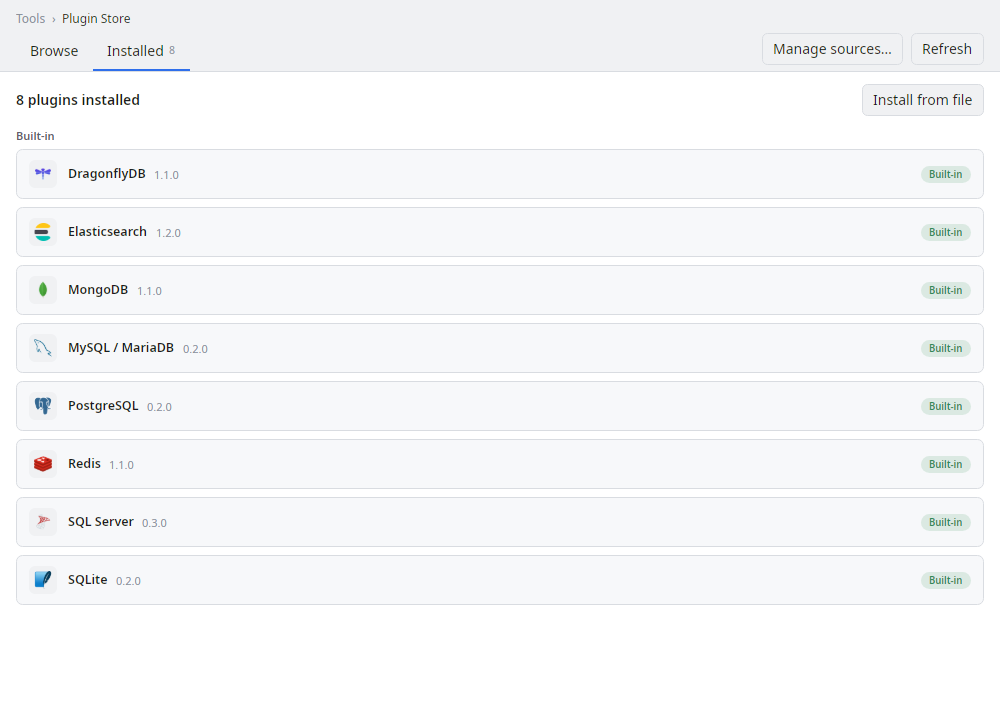
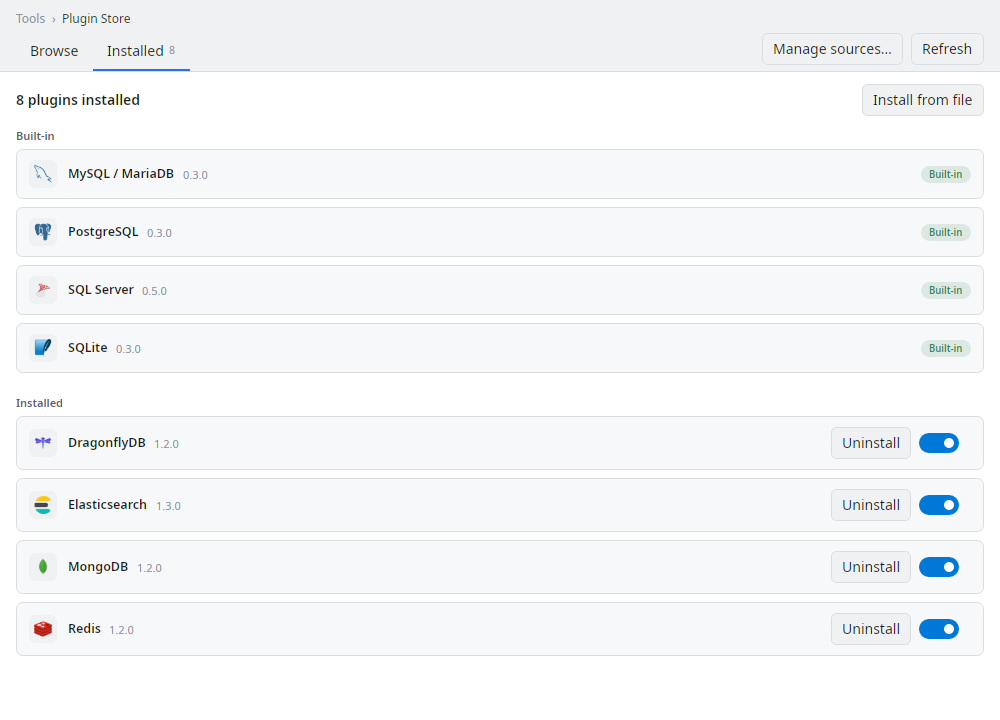
docs: the Plugin Store screenshot shows both kinds of install
The build stages every provider beside the binary, so the Store scene rendered all eight engines as
"Built-in" — a state no real profile is ever in, and one that hides the Uninstall and enable/disable
controls that only appear on a user install.

The scene now seeds its sandbox before the container is built (plugin discovery runs inside
AppServices.Build, so anything on disk has to be there first): the four SQL engines stay bundled and the
four NoSQL ones are copied into the per-user root, where discovery's "user copy wins on id" rule makes
them user-installed. The README caption says so.

Regenerated with tools/screenshots.sh; the committed PNG reproduces byte-identically.

diff --git a/src/SqlExplorer.Screenshots/Program.cs b/src/SqlExplorer.Screenshots/Program.cs
@@ -19,6 +19,7 @@ using SqlExplorer.Sdk.Formatting;
 using SqlExplorer.Core.History;
 using SqlExplorer.Core.Localization;
 using SqlExplorer.Core.Logging;
+using SqlExplorer.Core.Plugins;
 using SqlExplorer.Core.Providers;
 using SqlExplorer.Core.Schema;
 using SqlExplorer.Core.Settings;
@@ -57,6 +58,10 @@ internal static class Program
                 .UseSkia()
                 .UseHeadless(new AvaloniaHeadlessPlatformOptions { UseHeadlessDrawing = false })
                 .SetupWithoutStarting();
+
+            // Seed the sandbox before the container is built: plugin discovery runs inside
+            // AppServices.Build(), so anything a scene needs on disk has to be there first.
+            SceneCatalog.PrepareSandbox(opts.Scene);
 
             var services = AppServices.Build();
 
@@ -251,7 +256,49 @@ internal static class SceneCatalog
             services.GetRequiredService<KeymapService>()) { DataContext = viewModel };
     }
 
-    // The Plugin Store on its Installed tab, listing the bundled database engines (no network needed).
+    // The engines that ship beside the binary but are Store installs in a real profile: the build stages
+    // every provider into the bundled root, so a capture would otherwise show all eight as "Built-in".
+    private static readonly string[] StoreInstalledPlugins = ["mongodb", "redis", "dragonflydb", "elasticsearch"];
+
+    /// <summary>
+    /// Puts the sandbox in the state a scene needs before DI (and therefore plugin discovery) runs.
+    /// For the Store scene that means a realistic install mix: the four SQL engines stay bundled and the
+    /// four NoSQL engines are copied into the per-user root, where discovery's "user copy wins on id"
+    /// rule makes them user-installed — enable/disable/uninstall actions and all.
+    /// </summary>
+    public static void PrepareSandbox(string scene)
+    {
+        if (scene != "store")
+        {
+            return;
+        }
+
+        foreach (var id in StoreInstalledPlugins)
+        {
+            var source = Path.Combine(PluginPaths.BundledRoot, id);
+            if (Directory.Exists(source))
+            {
+                CopyDirectory(source, PluginPaths.UserPluginDir(id));
+            }
+        }
+    }
+
+    private static void CopyDirectory(string source, string target)
+    {
+        Directory.CreateDirectory(target);
+        foreach (var file in Directory.EnumerateFiles(source))
+        {
+            File.Copy(file, Path.Combine(target, Path.GetFileName(file)), overwrite: true);
+        }
+
+        foreach (var dir in Directory.EnumerateDirectories(source))
+        {
+            CopyDirectory(dir, Path.Combine(target, Path.GetFileName(dir)));
+        }
+    }
+
+    // The Plugin Store on its Installed tab: four built-in engines plus the four installed from the
+    // Store (see PrepareSandbox) — no network needed.
     private static Window BuildStore(IServiceProvider services)
     {
         var viewModel = services.GetRequiredService<PluginStoreViewModel>();

diff --git a/README.md b/README.md
@@ -15,7 +15,7 @@ Browsing a table with the editable result grid — all data shown is synthetic:
 
 Every database engine ships as a plugin; the Plugin Store manages them:
 
-![The Plugin Store listing the built-in database providers](docs/images/plugin-store.png)
+![The Plugin Store listing the built-in database providers alongside the ones installed from the store](docs/images/plugin-store.png)
 
 > Screenshots are rendered headlessly from the real app (no display, no real database) by
 > [`SqlExplorer.Screenshots`](src/SqlExplorer.Screenshots) — regenerate with `tools/screenshots.sh`.